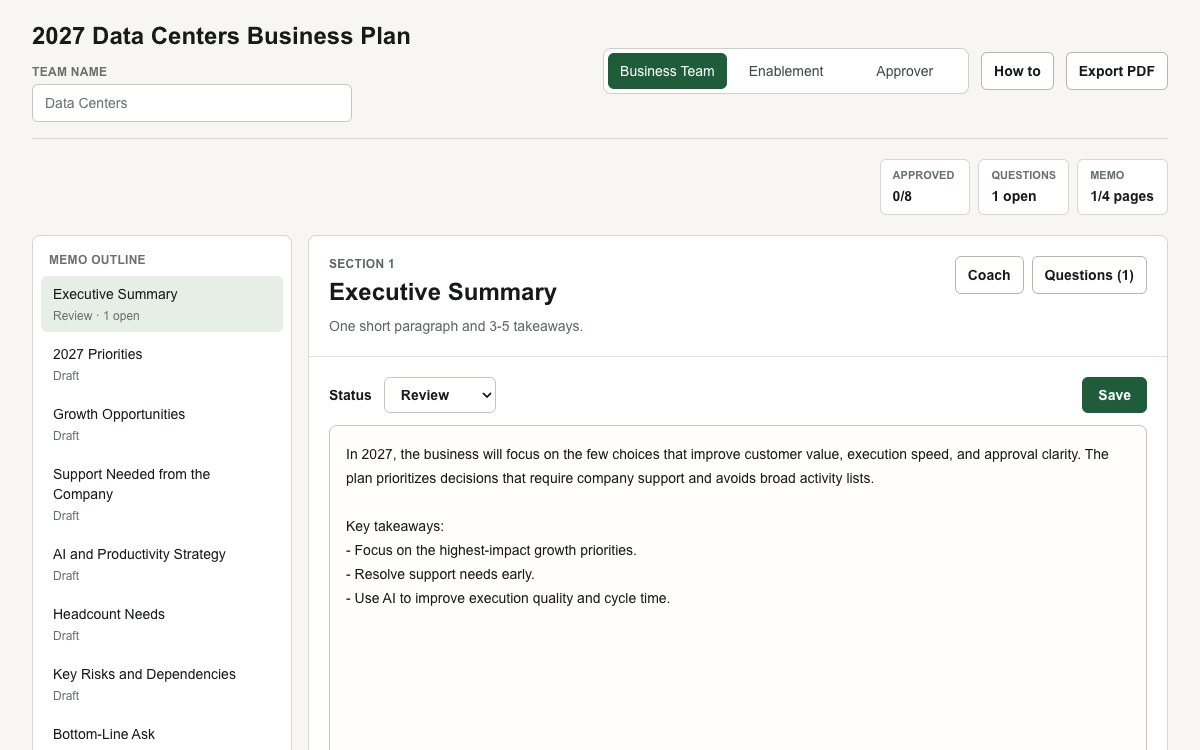
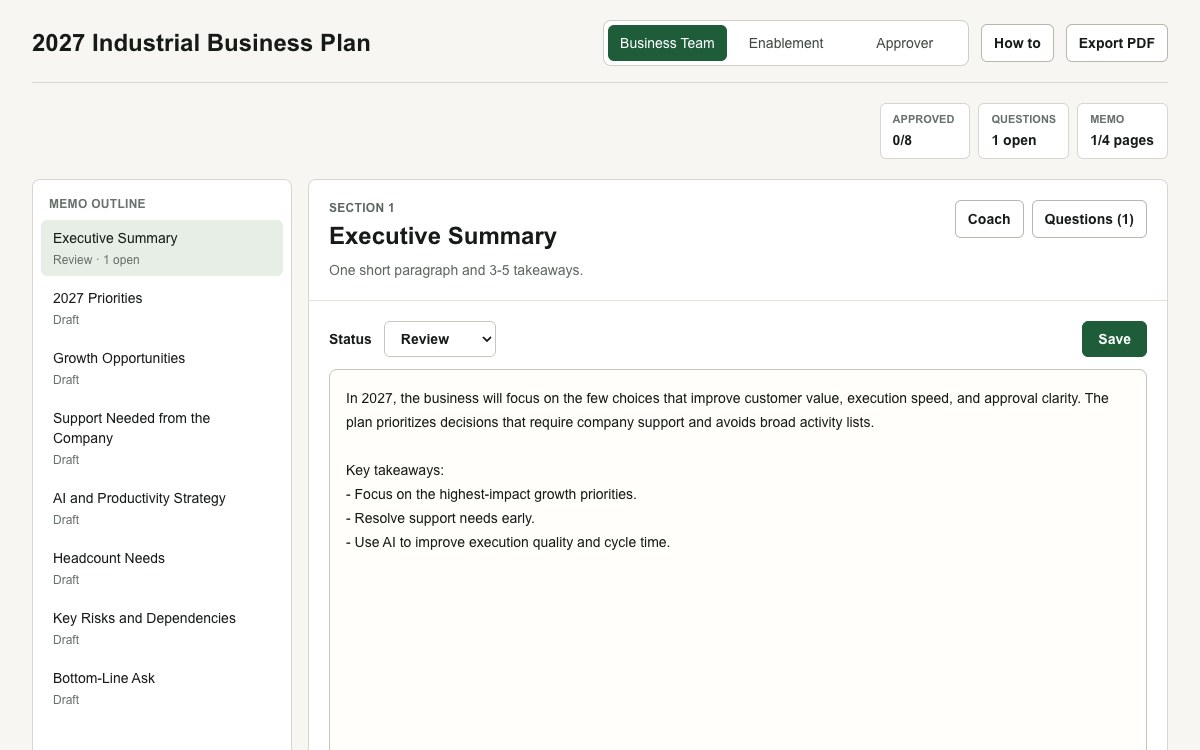
Add first-run team naming flow

diff --git a/app/page.tsx b/app/page.tsx
@@ -114,7 +114,8 @@ function roleAuthor(role: Role) {
 
 export default function Home() {
   const [role, setRole] = useState<Role>("business");
-  const [teamName, setTeamName] = useState("Team");
+  const [teamName, setTeamName] = useState("");
+  const [teamNameEntry, setTeamNameEntry] = useState("");
   const [sections, setSections] = useState<MemoSection[]>([]);
   const [comments, setComments] = useState<SectionComment[]>([]);
   const [approvals, setApprovals] = useState<Approval[]>([]);
@@ -147,7 +148,11 @@ export default function Home() {
     totalOpenQuestions === 0
       ? "Ready for approval"
       : `${totalOpenQuestions} open question${totalOpenQuestions === 1 ? "" : "s"}`;
-  const planTitle = `2027 ${teamName || "Team"} Business Plan`;
+  const cleanTeamName = teamName.trim();
+  const hasTeamName = cleanTeamName.length > 0 && cleanTeamName !== "Team";
+  const planTitle = hasTeamName
+    ? `2027 ${cleanTeamName} Business Plan`
+    : "2027 Business Plan";
 
   useEffect(() => {
     void loadWorkspace(role);
@@ -166,7 +171,9 @@ export default function Home() {
       throw new Error(payload.error ?? "Failed to load plan");
     }
 
-    setTeamName(payload.plan?.teamName || "Team");
+    const loadedTeamName = payload.plan?.teamName || "";
+    setTeamName(loadedTeamName);
+    setTeamNameEntry((current) => current || (loadedTeamName === "Team" ? "" : loadedTeamName));
     setSections(payload.sections);
     setComments(payload.comments);
     setApprovals(payload.approvals);
@@ -174,8 +181,11 @@ export default function Home() {
     setLoading(false);
   }
 
-  async function savePlanName(nextTeamName = teamName) {
-    const cleanName = nextTeamName.trim() || "Team";
+  async function savePlanName(nextTeamName = teamNameEntry) {
+    const cleanName = nextTeamName.trim();
+    if (!cleanName) return;
+
+    setSaving(true);
     setTeamName(cleanName);
     await fetch("/api/plan", {
       method: "POST",
@@ -185,6 +195,7 @@ export default function Home() {
         teamName: cleanName,
       }),
     });
+    setSaving(false);
   }
 
   async function saveSection(section: MemoSection) {
@@ -279,15 +290,6 @@ export default function Home() {
         <header className="mb-5 flex flex-col gap-4 border-b border-[#d8d6cf] pb-4 lg:flex-row lg:items-center lg:justify-between">
           <div>
             <h1 className="text-2xl font-semibold">{planTitle}</h1>
-            <label className="mt-3 block max-w-xs text-xs font-semibold uppercase tracking-wide text-[#68716b]">
-              Team name
-              <input
-                className="mt-1 w-full rounded-md border border-[#c9c6be] bg-white px-3 py-2 text-sm font-medium normal-case tracking-normal outline-none focus:border-[#1f5d3a]"
-                value={teamName}
-                onBlur={() => savePlanName()}
-                onChange={(event) => setTeamName(event.target.value)}
-              />
-            </label>
           </div>
           <div className="flex flex-col gap-3 sm:flex-row sm:items-center">
             <div className="inline-grid grid-cols-3 rounded-lg border border-[#d0cec7] bg-white p-1 text-sm">
@@ -321,17 +323,32 @@ export default function Home() {
           </div>
         </header>
 
-        <section className="mb-5 flex justify-end">
-          <div className="grid grid-cols-3 gap-2 text-sm">
-            <SummaryPill label="Approved" value={`${approvedSections}/${sections.length || 8}`} />
-            <SummaryPill label="Questions" value={`${totalOpenQuestions} open`} />
-            <SummaryPill label="Memo" value={`${pageEstimate}/4 pages`} />
-          </div>
-        </section>
+        {!loading && !hasTeamName ? (
+          <TeamNameEntry
+            saving={saving}
+            value={teamNameEntry}
+            onChange={setTeamNameEntry}
+            onSave={() => savePlanName(teamNameEntry)}
+          />
+        ) : null}
 
-        {loading || !activeSection ? (
+        {hasTeamName ? (
+          <section className="mb-5 flex justify-end">
+            <div className="grid grid-cols-3 gap-2 text-sm">
+              <SummaryPill label="Approved" value={`${approvedSections}/${sections.length || 8}`} />
+              <SummaryPill label="Questions" value={`${totalOpenQuestions} open`} />
+              <SummaryPill label="Memo" value={`${pageEstimate}/4 pages`} />
+            </div>
+          </section>
+        ) : null}
+
+        {loading ? (
           <div className="rounded-lg border border-[#d8d6cf] bg-white p-8 text-sm">
             Loading workspace...
+          </div>
+        ) : !hasTeamName ? null : !activeSection ? (
+          <div className="rounded-lg border border-[#d8d6cf] bg-white p-8 text-sm">
+            Loading sections...
           </div>
         ) : (
           <div className="grid gap-4 lg:grid-cols-[260px_minmax(0,1fr)]">
@@ -470,6 +487,50 @@ function SummaryPill({ label, value }: { label: string; value: string }) {
       <p className="text-[11px] font-semibold uppercase text-[#68716b]">{label}</p>
       <p className="mt-0.5 font-semibold">{value}</p>
     </div>
+  );
+}
+
+function TeamNameEntry({
+  saving,
+  value,
+  onChange,
+  onSave,
+}: {
+  saving: boolean;
+  value: string;
+  onChange: (value: string) => void;
+  onSave: () => void;
+}) {
+  return (
+    <section className="mx-auto mt-20 max-w-xl rounded-lg border border-[#d8d6cf] bg-white p-6 shadow-sm">
+      <p className="text-xs font-semibold uppercase tracking-wide text-[#68716b]">
+        New business plan
+      </p>
+      <h2 className="mt-2 text-2xl font-semibold">Name the team</h2>
+      <p className="mt-2 text-sm leading-6 text-[#56615a]">
+        This will become the plan title.
+      </p>
+      <label className="mt-5 block text-sm font-semibold">
+        Team name
+        <input
+          autoFocus
+          className="mt-2 w-full rounded-md border border-[#c9c6be] bg-[#fffefa] px-3 py-2 text-base outline-none focus:border-[#1f5d3a]"
+          onChange={(event) => onChange(event.target.value)}
+          onKeyDown={(event) => {
+            if (event.key === "Enter") onSave();
+          }}
+          placeholder="Data Centers"
+          value={value}
+        />
+      </label>
+      <button
+        className="mt-4 rounded-md bg-[#1f5d3a] px-4 py-2 text-sm font-semibold text-white hover:bg-[#17462c] disabled:cursor-not-allowed disabled:opacity-50"
+        disabled={saving || !value.trim()}
+        onClick={onSave}
+      >
+        {saving ? "Saving..." : "Save"}
+      </button>
+    </section>
   );
 }
 

diff --git a/app/api/plan/route.ts b/app/api/plan/route.ts
@@ -106,7 +106,7 @@ async function ensureSeedData() {
   await db.insert(businessPlans).values({
     id: PLAN_ID,
     title: "2027 Business Plan",
-    teamName: "Team",
+    teamName: "",
   });
 
   await db.insert(memoSections).values(
@@ -164,7 +164,11 @@ export async function POST(request: Request) {
     const action = payload.action;
 
     if (action === "save-plan") {
-      const teamName = String(payload.teamName ?? "").trim() || "Team";
+      const teamName = String(payload.teamName ?? "").trim();
+
+      if (!teamName) {
+        return Response.json({ error: "Team name is required" }, { status: 400 });
+      }
 
       await db
         .update(businessPlans)